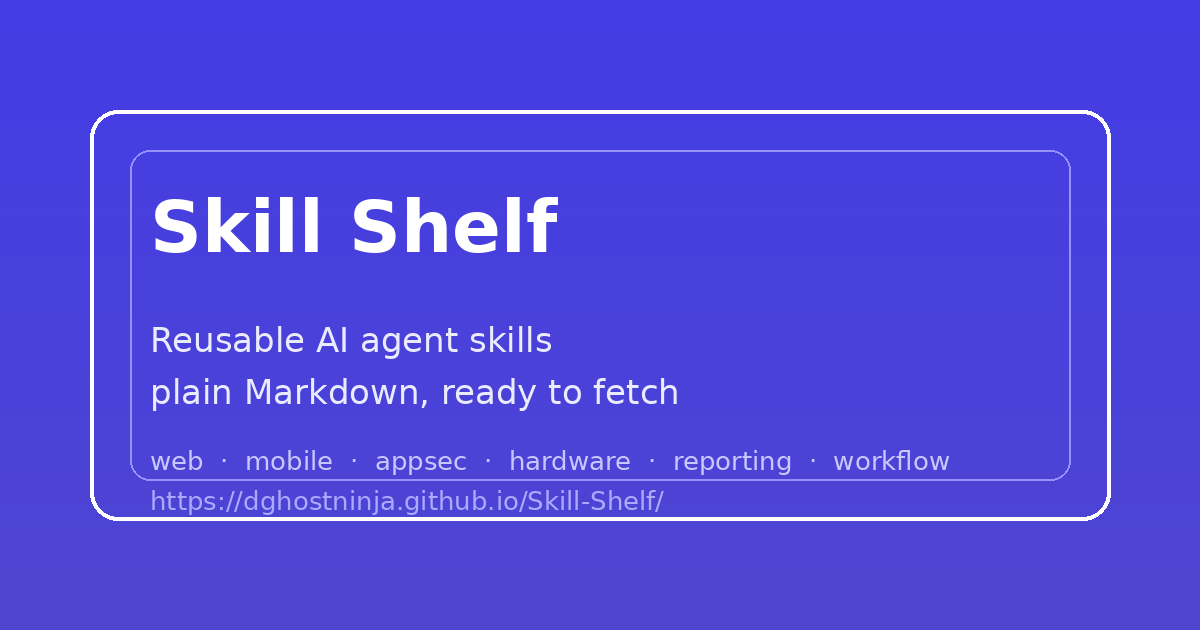
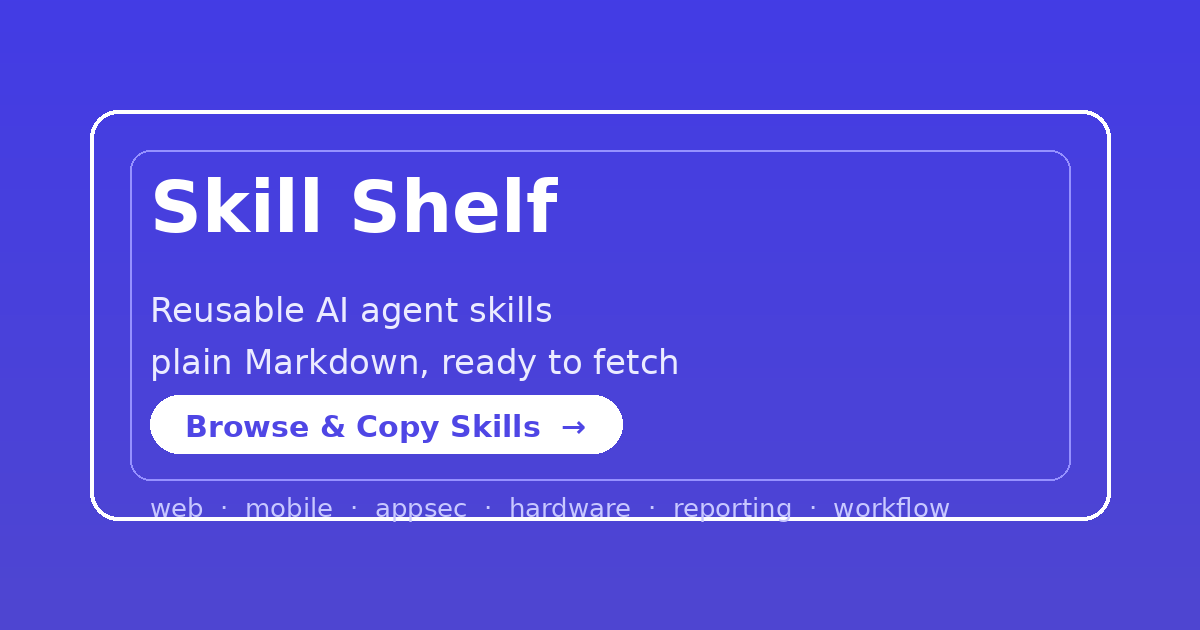
add call-to-action to og:image and bump cache-buster to v3

diff --git a/index.html b/index.html
@@ -10,17 +10,17 @@
   <meta property="og:description" content="A lightweight registry of reusable AI agent skills. Browse, copy, and drop them into any agent's workflow.">
   <meta property="og:type" content="website">
   <meta property="og:url" content="https://dghostninja.github.io/Skill-Shelf/">
-  <meta property="og:image" content="https://dghostninja.github.io/Skill-Shelf/assets/og-image.png?v=2">
+  <meta property="og:image" content="https://dghostninja.github.io/Skill-Shelf/assets/og-image.png?v=3">
   <meta property="og:image:width" content="1200">
   <meta property="og:image:height" content="630">
   <meta property="og:site_name" content="Skill Shelf">
   <meta name="twitter:card" content="summary_large_image">
   <meta name="twitter:title" content="Skill Shelf · Reusable Agent Skills">
   <meta name="twitter:description" content="A lightweight registry of reusable AI agent skills. Browse, copy, and drop them into any agent's workflow.">
-  <meta name="twitter:image" content="https://dghostninja.github.io/Skill-Shelf/assets/og-image.png?v=2">
+  <meta name="twitter:image" content="https://dghostninja.github.io/Skill-Shelf/assets/og-image.png?v=3">
 
   <link rel="icon" type="image/svg+xml" href="assets/favicon.svg">
-  <link rel="apple-touch-icon" href="assets/og-image.png?v=2">
+  <link rel="apple-touch-icon" href="assets/og-image.png?v=3">
 
   <script>
     (function () {
